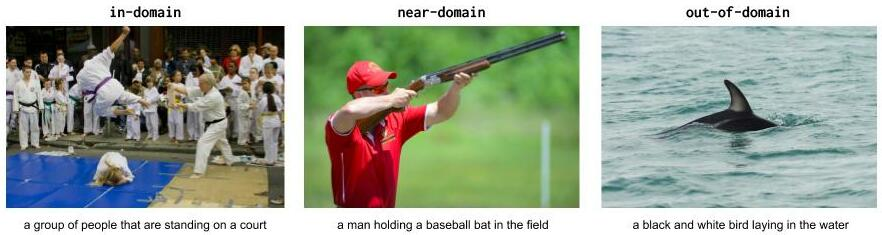
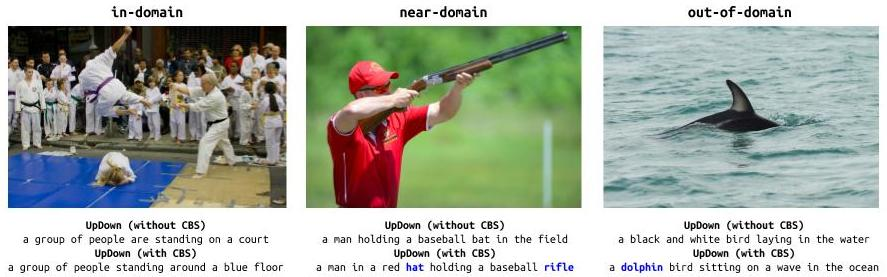
Add CBS outputs to qualitative example figure.

diff --git a/README.md b/README.md
@@ -45,7 +45,7 @@ Use it as an API reference to navigate through and build on top of our code.
 Results
 -------
 
-Pre-trained checkpoints with the provided congis in (`configs` directory) are available to download:
+Pre-trained checkpoints with the provided configs in (`configs` directory) are available to download:
 
 ### UpDown Captioner (no CBS):
 
@@ -84,7 +84,7 @@ dimensional word embeddings which are learned during training.
 - Checkpoint (`.pth` file): [updown_plus_cbs.pth](https://www.dropbox.com/s/dajlwdn22betk4a/updown_plus_cbs.pth)
 
 **Note:** Since CBS is inference-only technique, this particular checkpoint can be used
-without CBS decoding. It yields simila results to the UpDown Captioner trained using
+without CBS decoding. It yields similar results to the UpDown Captioner trained using
 learned word embeddings during training.
 
 #### With CBS Decoding:
